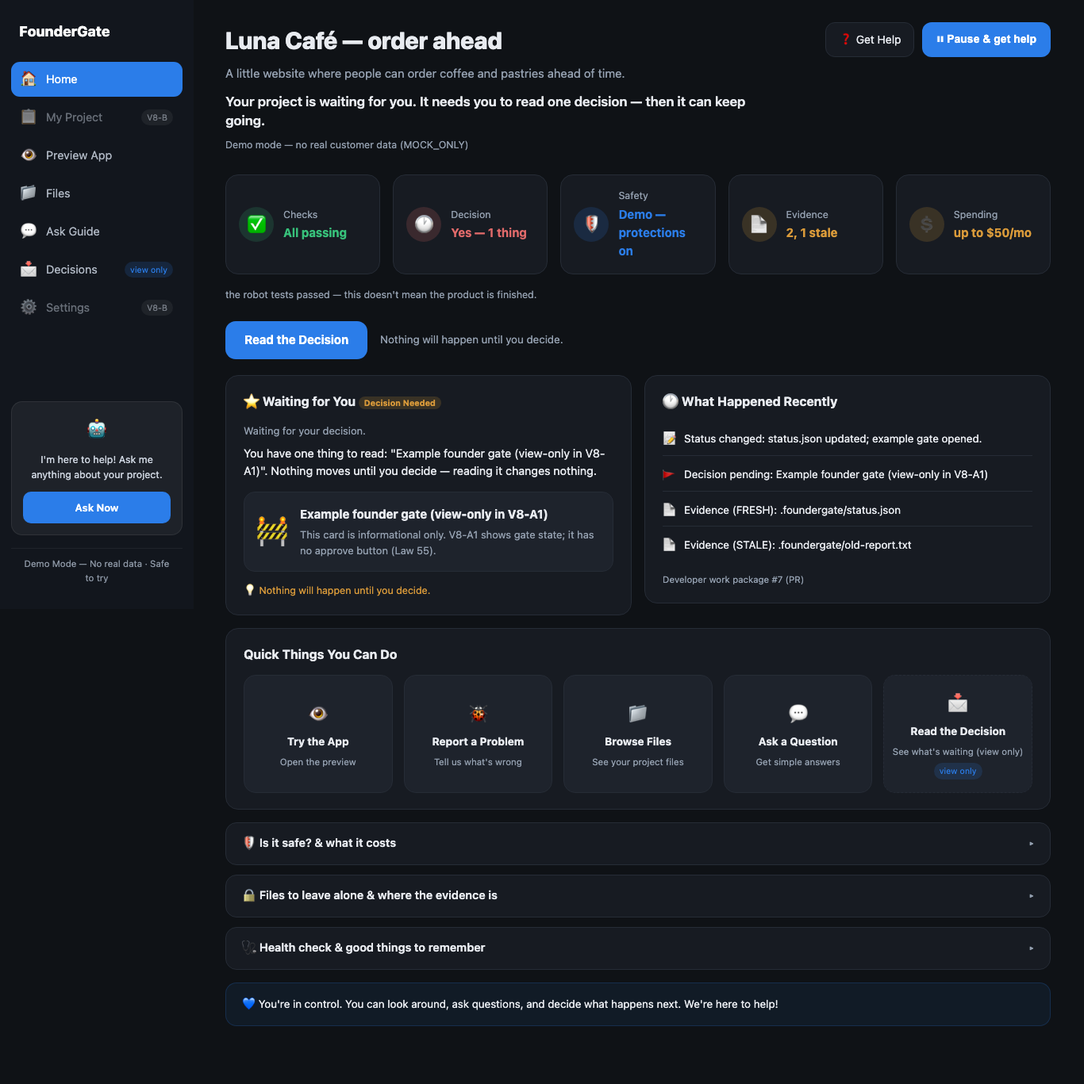
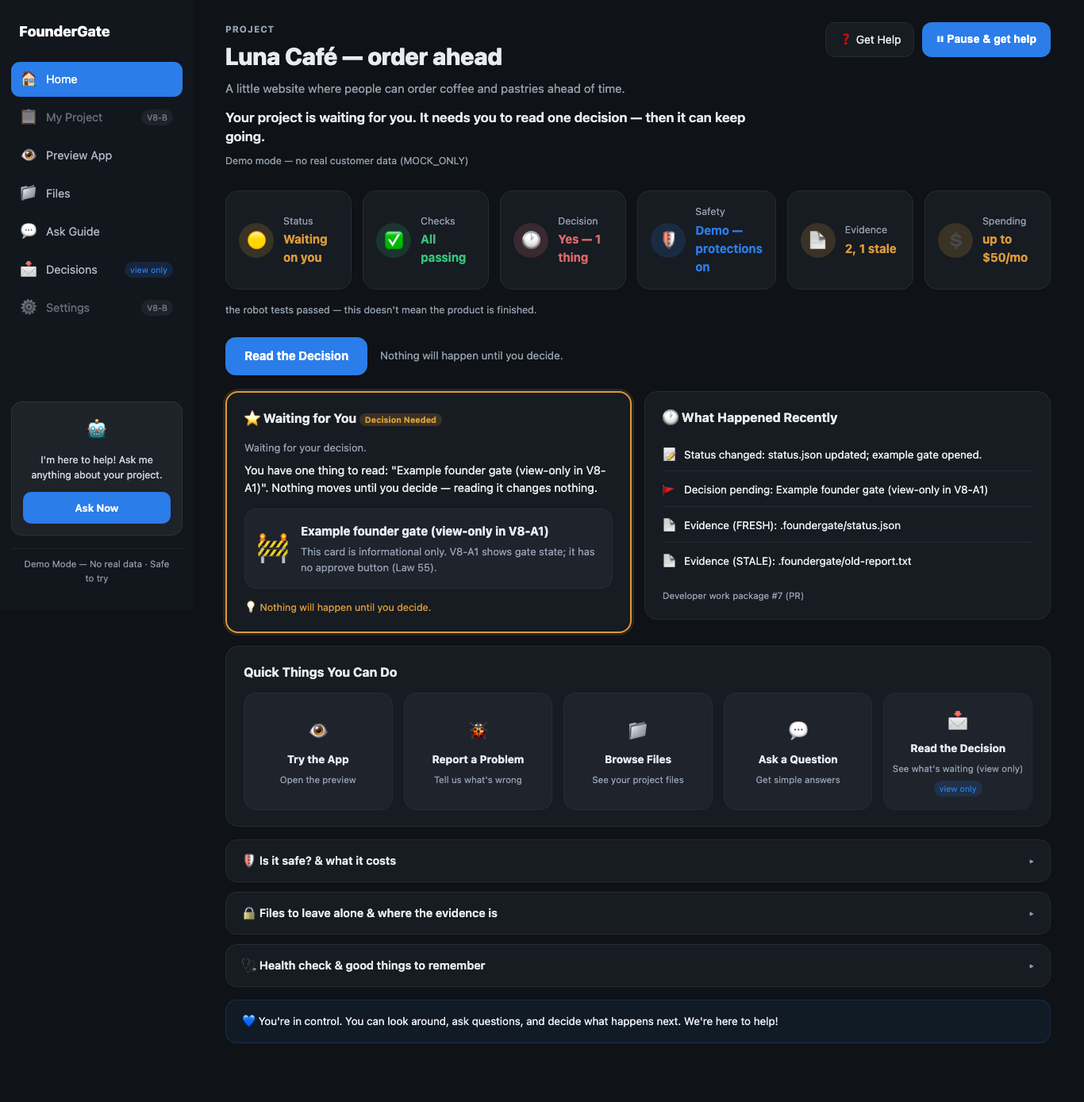
VA-REPAIR-4: design-system consolidation + Run-4 findings (J0/J1/J2/J4/J5/J6)
Root cause of the Run-4 visual findings: four apps built in four bundles carried
four divergent stylesheets ("doesn't match / a little off / very dull / very red,
very scary"). Fix the CAUSE.

J0 shared design system: new src/ui/tokens.css (palette, type scale, spacing,
card/badge/chip/button components). All four servers serve /tokens.css; all four
HTMLs load it; the three light apps drop their own palettes to inherit the shared
DARK tokens. Guard: src/tools/design-consistency.selftest.mjs (every page loads
tokens + uses shared palette; no divergent light theme). (.gitignore *token* glob
was swallowing tokens.css — added !**/tokens.css negation.)

J1 running-STATE chip on the dashboard status strip (Jimmy: "how do I know if the
project is running?"), model-derived traffic light (green run / amber wait|pause /
red stop / grey unknown). Guard: home-model tone-per-state.
J2 amber highlight/trim on the needs-you decision card when pending. Smoke asserts.
J5 "Project:" label above the name. Smoke asserts.
J4 File Cabinet calmed: red danger-wall -> calm purple LOCK treatment; red reserved
for a genuine problem only. D4 badge-visibility guard updated (distinct AND calm);
"red = problem only" added to the Assembly Manual UI-language law (§24).
J6 Project Guide warmed to the shared design (dark shell + a friendly welcome).

VISUAL SELF-REVIEW performed on all four apps at 1366x768 and 1440x900; verdict in
[…]

diff --git a/src/v8a3/filecabinet/ui/filecabinet.css b/src/v8a3/filecabinet/ui/filecabinet.css
@@ -1,11 +1,10 @@
-:root { --bg:#f5f6f8; --sidebar:#1f2530; --panel:#fff; --text:#232a33; --muted:#6b7480; --line:#e5e9ef;
-  --accent:#2b7de9; --ok:#1f9d55; --warn:#b26a00; --lock:#7a4bd6; --blocked:#c0362c; }
-@media (prefers-color-scheme: dark){ :root{ --bg:#12151a; --panel:#1a1e25; --text:#e6e9ee; --line:#2a2f38; --muted:#94a0b0; --blocked:#ff6b5e; } }
-*{box-sizing:border-box} html,body{margin:0;height:100%} body{background:var(--bg);color:var(--text);
-  font:14px/1.45 -apple-system,BlinkMacSystemFont,"Segoe UI",Roboto,sans-serif}
-.app{display:grid;grid-template-columns:216px 1fr;min-height:100vh}
-.sidebar{background:var(--sidebar);color:#cdd4df;display:flex;flex-direction:column;padding:16px 12px;gap:4px;height:100vh;position:sticky;top:0}
-.brand{font-weight:700;color:#fff;font-size:16px;padding:6px 10px 14px}
+/* Palette + components come from the shared design system (tokens.css). Layout-only
+   here, so the File Cabinet matches its siblings (VA-REPAIR-4 / J0). Protected/blocked
+   files use the CALM LOCK treatment (purple), never a red danger-wall — red is
+   reserved for a genuine problem (J4). */
+.app{display:grid;grid-template-columns:244px 1fr;min-height:100vh}
+.sidebar{background:var(--sidebar);color:var(--sidebar-text);display:flex;flex-direction:column;padding:20px 14px;gap:4px;height:100vh;position:sticky;top:0}
+.brand{font-weight:800;color:#fff;font-size:18px;padding:6px 10px 18px}
 .nav{display:flex;flex-direction:column;gap:2px}.nav .item{padding:8px 10px;border-radius:8px;color:#cdd4df;font-size:13.5px;cursor:default}
 .nav .item.active{background:var(--accent);color:#fff}
 .sidebar-spacer{flex:1}.pause-dock{border-top:1px solid rgba(255,255,255,.08);padding-top:12px}
@@ -23,33 +22,34 @@
 /* Filter toolbar — one-click jump to protected/blocked files. */
 .tree-panel{display:flex;flex-direction:column}
 .tree-tools{display:flex;align-items:center;flex-wrap:wrap;gap:8px;margin-bottom:10px}
-.filter-btn{font-size:12.5px;font-weight:600;padding:7px 12px;border-radius:8px;border:1px solid var(--blocked);
-  background:rgba(192,54,44,.07);color:var(--blocked);cursor:pointer}
-.filter-btn:hover{background:rgba(192,54,44,.14)}
-.filter-btn[aria-pressed="true"]{background:var(--blocked);color:#fff}
+.filter-btn{font-size:12.5px;font-weight:600;padding:7px 12px;border-radius:8px;border:1px solid var(--lock);
+  background:var(--lock-tint);color:var(--lock);cursor:pointer}
+.filter-btn:hover{background:rgba(183,155,240,.20)}
+.filter-btn[aria-pressed="true"]{background:var(--lock);color:#fff}
 .tree-tools-hint{font-size:11.5px;color:var(--muted)}
 .filerow{display:flex;align-items:center;justify-content:space-between;gap:8px;padding:6px 8px;border-radius:8px;cursor:pointer}
 .filerow:hover{background:var(--bg)}
 .filerow.locked{cursor:not-allowed;opacity:.85}
 .fileleft{display:flex;align-items:center;gap:6px;min-width:0}
 .filename{font-size:13px;overflow:hidden;text-overflow:ellipsis;white-space:nowrap}
-/* Blocked rows: a loud, distinct treatment (red rail + lock) — clearly NOT the
-   quiet safe rows, spottable without reading a word. */
-.row-lock{color:var(--blocked);font-size:12.5px;line-height:1;flex:0 0 auto}
-.filerow.blocked{background:rgba(192,54,44,.07);border-left:3px solid var(--blocked);padding-left:6px}
-.filerow.blocked:hover{background:rgba(192,54,44,.14)}
-.filerow.blocked .filename{font-weight:600;color:var(--blocked)}
+/* Blocked rows: a CALM, distinct lock treatment (purple rail + lock glyph) —
+   clearly not the quiet safe rows, spottable without reading a word, but not scary
+   (J4: red is reserved for a genuine problem). */
+.row-lock{color:var(--lock);font-size:12.5px;line-height:1;flex:0 0 auto}
+.filerow.blocked{background:var(--lock-tint);border-left:3px solid var(--lock);padding-left:6px}
+.filerow.blocked:hover{background:rgba(183,155,240,.20)}
+.filerow.blocked .filename{font-weight:600;color:var(--lock)}
 .badge{display:inline-block;font-size:10.5px;padding:2px 8px;border-radius:6px;background:var(--bg);border:1px solid var(--line);color:var(--muted);white-space:nowrap}
 .badge.ok{color:var(--ok);border-color:rgba(31,157,85,.4)}
 .badge.warn{color:var(--warn);border-color:rgba(178,106,0,.4)}
 .badge.lock{color:var(--lock);border-color:rgba(122,75,214,.4)}
-/* Blocked badge overrides the safe/lock palette — dedicated red, bold, loud. */
-.badge.blocked{color:#fff;background:var(--blocked);border-color:var(--blocked);font-weight:700}
+/* Blocked badge: the calm lock treatment (purple), bold enough to spot at a glance. */
+.badge.blocked{color:#fff;background:var(--lock);border-color:var(--lock);font-weight:700}
 .viewer{min-height:320px}
 .viewer-empty{color:var(--muted);padding:30px;text-align:center}
 .viewer-head{display:flex;align-items:center;justify-content:space-between;gap:10px;margin-bottom:8px}
 .viewer-actions{display:flex;gap:6px}
 .btn{font-size:12.5px;padding:6px 10px;border-radius:8px;border:1px solid var(--line);background:var(--panel);color:var(--text);cursor:pointer}
 .viewer-body{background:var(--bg);border:1px solid var(--line);border-radius:8px;padding:12px;max-height:360px;overflow:auto;white-space:pre-wrap;font:12px/1.5 ui-monospace,Menlo,monospace}
-.viewer-blocked{background:rgba(192,54,44,.08);border:1px solid var(--blocked);border-radius:8px;padding:16px;color:var(--blocked)}
+.viewer-blocked{background:var(--lock-tint);border:1px solid var(--lock);border-radius:8px;padding:16px;color:var(--lock)}
 .hint{font-size:12px;color:var(--muted)}

diff --git a/src/ui/tokens.css b/src/ui/tokens.css
@@ -1,0 +1,57 @@
+/* FounderGate — SHARED DESIGN TOKENS (one design language for all four apps).
+ *
+ * VA-REPAIR-4 / J0: the four founder-facing apps (Truth Dashboard, Preview Bay,
+ * File Cabinet, Project Guide) were built in four bundles with four divergent
+ * stylesheets ("doesn't match / a little off / very dull / very scary"). This file
+ * is the single source of the palette, type scale, spacing rhythm, and the shared
+ * card / badge / chip / button components. Every app loads it FIRST; each app's own
+ * CSS keeps only its layout.
+ *
+ * UI LANGUAGE / COLOUR LAW: red is reserved for a genuine PROBLEM (a real failure or
+ * a live danger). Routine "protected / blocked / hidden" states use the calm LOCK
+ * treatment (neutral + a quiet purple), never a red danger-wall. (Assembly Manual
+ * UI-language section: scary colour fields are banned like scary words.)
+ */
+
+:root {
+  /* palette — the dashboard's dark system, now shared */
+  --bg: #0f1216; --sidebar: #12161d; --sidebar-text: #aeb6c2; --sidebar-active: #2b7de9;
+  --panel: #171b22; --panel2: #1e232c; --text: #e8ebf0; --muted: #94a0b0; --line: #262c36;
+  --accent: #2b7de9;
+  /* semantic status — green good · amber attention/caution · red PROBLEM ONLY · purple protected · grey unknown */
+  --ok: #37c07a; --warn: #d99a3a; --bad: #e06a6a; --lock: #b79bf0; --lock-tint: #20182f; --unknown: #94a0b0;
+  /* type scale (one scale, no competing sizes) */
+  --t-title: 30px; --t-h2: 16px; --t-body: 15px; --t-small: 12.5px;
+  /* spacing rhythm (8pt grid) */
+  --sp: 8px; --radius: 16px; --radius-sm: 11px;
+  --shadow: 0 1px 3px rgba(10,20,40,.28);
+}
+:root[data-theme="light"] { --bg:#f5f6f8; --sidebar:#12161d; --panel:#fff; --panel2:#f1f3f6; --text:#232a33; --muted:#6b7480; --line:#e5e9ef; --lock-tint:#f3eefc; }
+
+* { box-sizing: border-box; }
+html, body { margin: 0; min-height: 100%; }
+body { background: var(--bg); color: var(--text);
+  font: var(--t-body)/1.55 -apple-system, BlinkMacSystemFont, "Segoe UI", Roboto, sans-serif; }
+
+/* ---- shared components (apps reference these for kinship) ---- */
+.fg-card { background: var(--panel); border: 1px solid var(--line); border-radius: var(--radius); padding: 20px 22px; }
+.fg-card h2 { font-size: var(--t-h2); margin: 0 0 14px; }
+
+.fg-badge { display: inline-block; font-size: 11px; padding: 2px 9px; border-radius: 7px; background: var(--panel2); color: var(--muted); border: 1px solid transparent; white-space: nowrap; }
+.fg-badge.ok { background: rgba(55,192,122,.15); color: var(--ok); }
+.fg-badge.warn { background: rgba(217,154,58,.16); color: var(--warn); }
+.fg-badge.info { background: rgba(43,125,233,.14); color: var(--accent); }
+/* calm lock treatment for protected / blocked / unknown — NOT red */
+.fg-badge.lock { background: rgba(183,155,240,.16); color: var(--lock); border-color: rgba(183,155,240,.28); }
+/* red badge is for a genuine PROBLEM only */
+.fg-badge.problem { background: rgba(224,106,106,.16); color: var(--bad); }
+
+.fg-chip { display: inline-flex; align-items: center; gap: 6px; font-size: var(--t-small); padding: 4px 11px; border-radius: 999px; border: 1px solid var(--line); background: var(--panel2); color: var(--text); }
+
+.fg-btn { min-height: 44px; display: inline-flex; align-items: center; justify-content: center; gap: 6px; font: inherit; font-size: 14px; font-weight: 600; padding: 0 18px; border-radius: 12px; border: 1px solid var(--line); background: var(--panel); color: var(--text); cursor: pointer; text-decoration: none; }
+.fg-btn.primary { border: 0; background: var(--accent); color: #fff; }
+
+.fg-tag { font-size: 10.5px; background: rgba(43,125,233,.16); color: var(--accent); padding: 2px 7px; border-radius: 999px; }
+
+/* shared sidebar shell (all apps share the same left rail look) */
+.fg-sidebar { background: var(--sidebar); color: var(--sidebar-text); }

diff --git a/src/v8a4/guide/ui/guide.css b/src/v8a4/guide/ui/guide.css
@@ -1,11 +1,8 @@
-:root { --bg:#f5f6f8; --sidebar:#1f2530; --panel:#fff; --text:#232a33; --muted:#6b7480; --line:#e5e9ef;
-  --accent:#2b7de9; --ok:#1f9d55; --warn:#b26a00; --lock:#7a4bd6; }
-@media (prefers-color-scheme: dark){ :root{ --bg:#12151a; --panel:#1a1e25; --text:#e6e9ee; --line:#2a2f38; --muted:#94a0b0; } }
-*{box-sizing:border-box} html,body{margin:0;height:100%} body{background:var(--bg);color:var(--text);
-  font:14px/1.45 -apple-system,BlinkMacSystemFont,"Segoe UI",Roboto,sans-serif}
-.app{display:grid;grid-template-columns:216px 1fr;min-height:100vh}
-.sidebar{background:var(--sidebar);color:#cdd4df;display:flex;flex-direction:column;padding:16px 12px;gap:4px;height:100vh;position:sticky;top:0}
-.brand{font-weight:700;color:#fff;font-size:16px;padding:6px 10px 14px}
+/* Palette + components come from the shared design system (tokens.css). Layout-only
+   here, so the Project Guide matches its siblings (VA-REPAIR-4 / J0 + J6). */
+.app{display:grid;grid-template-columns:244px 1fr;min-height:100vh}
+.sidebar{background:var(--sidebar);color:var(--sidebar-text);display:flex;flex-direction:column;padding:20px 14px;gap:4px;height:100vh;position:sticky;top:0}
+.brand{font-weight:800;color:#fff;font-size:18px;padding:6px 10px 18px}
 .nav{display:flex;flex-direction:column;gap:2px}.nav .item{padding:8px 10px;border-radius:8px;color:#cdd4df;font-size:13.5px;cursor:default}
 .nav .item.active{background:var(--accent);color:#fff}
 .sidebar-spacer{flex:1}.pause-dock{border-top:1px solid rgba(255,255,255,.08);padding-top:12px}
@@ -18,7 +15,12 @@
 .chip{font-size:12.5px;padding:6px 11px;border-radius:999px;border:1px solid var(--line);background:var(--bg);color:var(--text);cursor:pointer}
 .chip:hover{border-color:var(--accent);color:var(--accent)}
 
-.chat{display:flex;flex-direction:column;gap:10px;min-height:120px;margin-bottom:12px}
+/* J6 — a warm welcome so the empty chat isn't dull; hidden once a reply arrives. */
+.chat{display:flex;flex-direction:column;gap:10px;min-height:200px;margin-bottom:12px}
+.chat-welcome{align-self:center;text-align:center;color:var(--muted);margin:auto;max-width:420px}
+.chat-welcome .robot{font-size:34px}
+.chat-welcome .hi{color:var(--text);font-weight:600;font-size:15px;margin:8px 0 4px}
+.chat[data-ready="1"] .chat-welcome{display:none}
 .msg{max-width:88%;padding:10px 13px;border-radius:12px;font-size:13.5px;white-space:pre-wrap;overflow-wrap:anywhere}
 .msg.me{align-self:flex-end;background:var(--accent);color:#fff;border-bottom-right-radius:4px}
 .msg.guide{align-self:flex-start;background:var(--bg);border:1px solid var(--line);border-bottom-left-radius:4px}

diff --git a/src/v8a1/dashboard/styles.css b/src/v8a1/dashboard/styles.css
@@ -38,6 +38,7 @@ body { background: var(--bg); color: var(--text);
 /* Top bar — IDENTITY */
 .topbar { display: flex; align-items: flex-start; justify-content: space-between; gap: 24px; margin-bottom: 28px; }
 .identity { max-width: 680px; }
+.proj-label { font-size: 11.5px; font-weight: 700; letter-spacing: .09em; text-transform: uppercase; color: var(--muted); margin-bottom: 2px; }
 .proj-name { font-size: 30px; font-weight: 800; margin: 0; letter-spacing: -.01em; }
 .proj-desc { margin: 6px 0 0; color: var(--muted); font-size: 15px; }
 .proj-summary { margin: 12px 0 0; font-size: 17px; font-weight: 600; line-height: 1.45; }
@@ -50,8 +51,9 @@ body { background: var(--bg); color: var(--text);
 
 /* ===== LAYER 1 — the essentials; natural height, Layer 2 flows right after ===== */
 .layer1 { margin-bottom: 20px; }
-.chips-row { display: grid; grid-template-columns: repeat(5, 1fr); gap: 16px; }
-@media (max-width: 1000px) { .chips-row { grid-template-columns: repeat(2, 1fr); } }
+.chips-row { display: grid; grid-template-columns: repeat(6, 1fr); gap: 14px; }
+@media (max-width: 1100px) { .chips-row { grid-template-columns: repeat(3, 1fr); } }
+@media (max-width: 700px) { .chips-row { grid-template-columns: repeat(2, 1fr); } }
 .statchip { display: flex; align-items: center; gap: 12px; min-height: 76px; padding: 16px; border: 1px solid var(--line); border-radius: 16px; background: var(--panel); }
 .statchip-ico { font-size: 22px; width: 44px; height: 44px; display: grid; place-items: center; border-radius: 50%; flex-shrink: 0; }
 .statchip-ico.ok { background: rgba(55,192,122,.16); } .statchip-ico.attention { background: rgba(224,106,106,.18); }
@@ -72,6 +74,8 @@ body { background: var(--bg); color: var(--text);
 .card h2 { font-size: 16px; margin: 0 0 14px; }
 .mainrow { display: grid; grid-template-columns: 1fr 1fr; gap: 16px; align-items: start; }
 @media (max-width: 1000px) { .mainrow { grid-template-columns: 1fr; } }
+/* J2 — the card that needs the founder gets an amber trim + soft glow */
+.card.waiting.needs-you { border: 2px solid var(--warn); box-shadow: 0 0 0 3px rgba(217,154,58,.14); }
 .waiting .decision-state { margin: 0 0 8px; font-size: 13px; color: var(--muted); }
 .waiting .lead { font-size: 14.5px; margin: 0 0 14px; }
 .gate-box { display: flex; gap: 16px; align-items: center; background: var(--panel2); border: 1px solid var(--line); border-radius: 14px; padding: 16px; }

diff --git a/src/v8a2/preview/ui/preview-bay.css b/src/v8a2/preview/ui/preview-bay.css
@@ -1,11 +1,9 @@
-:root { --bg:#f5f6f8; --sidebar:#1f2530; --panel:#fff; --text:#232a33; --muted:#6b7480; --line:#e5e9ef;
-  --accent:#2b7de9; --ok:#1f9d55; --warn:#b26a00; --bad:#d64545; }
-@media (prefers-color-scheme: dark){ :root{ --bg:#12151a; --panel:#1a1e25; --text:#e6e9ee; --line:#2a2f38; --muted:#94a0b0; } }
-*{box-sizing:border-box} html,body{margin:0;height:100%} body{background:var(--bg);color:var(--text);
-  font:14px/1.45 -apple-system,BlinkMacSystemFont,"Segoe UI",Roboto,sans-serif}
-.app{display:grid;grid-template-columns:216px 1fr;min-height:100vh}
-.sidebar{background:var(--sidebar);color:#cdd4df;display:flex;flex-direction:column;padding:16px 12px;gap:4px;height:100vh;position:sticky;top:0}
-.brand{font-weight:700;color:#fff;font-size:16px;padding:6px 10px 14px}
+/* Palette, type scale, and card/badge/chip/button components come from the shared
+   design system (tokens.css, loaded first). This file is layout-only so the Preview
+   Bay matches its sibling apps (VA-REPAIR-4 / J0). */
+.app{display:grid;grid-template-columns:244px 1fr;min-height:100vh}
+.sidebar{background:var(--sidebar);color:var(--sidebar-text);display:flex;flex-direction:column;padding:20px 14px;gap:4px;height:100vh;position:sticky;top:0}
+.brand{font-weight:800;color:#fff;font-size:18px;padding:6px 10px 18px}
 .nav{display:flex;flex-direction:column;gap:2px}
 .nav .item{padding:8px 10px;border-radius:8px;color:#cdd4df;font-size:13.5px;cursor:default}
 .nav .item.active{background:var(--accent);color:#fff}

diff --git a/src/v8a4/guide/ui/guide.html b/src/v8a4/guide/ui/guide.html
@@ -4,6 +4,7 @@
   <meta charset="utf-8" />
   <meta name="viewport" content="width=device-width, initial-scale=1" />
   <title>Project Guide — FounderGate</title>
+  <link rel="stylesheet" href="tokens.css" />
   <link rel="stylesheet" href="guide.css" />
 </head>
 <body>
@@ -29,7 +30,14 @@
 
       <section class="card">
         <div class="chips" id="chips" aria-label="Things you can ask"></div>
-        <div class="chat" id="chat" data-ready="0" aria-live="polite"></div>
+        <div class="chat" id="chat" data-ready="0" aria-live="polite">
+          <div class="chat-welcome" id="chat-welcome">
+            <div class="robot" aria-hidden="true">🤖</div>
+            <p class="hi">Hi! I'm your Project Guide.</p>
+            <p>Ask me anything in plain English — I'll answer clearly and show you where I got the answer. Tap a
+              question above, or type your own. I can only explain and draft — I never change anything.</p>
+          </div>
+        </div>
         <form class="ask" id="ask">
           <input id="q" autocomplete="off" placeholder="Ask about your project — e.g. “what's blocked?”" />
           <button type="submit" id="send">Ask</button>

diff --git a/src/v8a3/filecabinet/ui/filecabinet.html b/src/v8a3/filecabinet/ui/filecabinet.html
@@ -4,6 +4,7 @@
     <meta charset="utf-8" />
     <meta name="viewport" content="width=device-width, initial-scale=1" />
     <title>FounderGate — File Cabinet (V8-A3)</title>
+    <link rel="stylesheet" href="tokens.css" />
     <link rel="stylesheet" href="filecabinet.css" />
   </head>
   <body>
@@ -32,7 +33,7 @@
           <div class="tree-panel">
             <div class="tree-tools">
               <button id="show-blocked-btn" class="filter-btn" type="button" aria-pressed="false">🔒 Show only protected &amp; blocked files</button>
-              <span class="tree-tools-hint">Protected files show a lock and a red mark.</span>
+              <span class="tree-tools-hint">Protected files show a lock and a purple mark.</span>
             </div>
             <section class="tree card" id="tree" aria-label="Files by category"></section>
           </div>

diff --git a/src/v8a1/dashboard/index.html b/src/v8a1/dashboard/index.html
@@ -4,6 +4,7 @@
     <meta charset="utf-8" />
     <meta name="viewport" content="width=device-width, initial-scale=1" />
     <title>FounderGate — Truth Dashboard (V8-A1)</title>
+    <link rel="stylesheet" href="tokens.css" />
     <link rel="stylesheet" href="styles.css" />
   </head>
   <body id="top">
@@ -25,6 +26,7 @@
         <!-- Top bar: IDENTITY (what is this) + actions -->
         <header class="topbar">
           <div class="identity" id="identity">
+            <div class="proj-label" id="proj-label">Project</div>
             <h1 class="proj-name" id="proj-name">—</h1>
             <p class="proj-desc" id="proj-desc"></p>
             <p class="proj-summary" id="proj-summary"></p>

diff --git a/src/v8a1/dashboard/app.js b/src/v8a1/dashboard/app.js
@@ -58,6 +58,8 @@ function render(view) {
   $("next-note").textContent = h.nextNote;
 
   // LAYER 2 — Waiting detail (F3), activity, tiles
+  // J2 (Run-4): the card needing the founder carries an amber highlight/trim.
+  $("waiting").classList.toggle("needs-you", !!h.waiting.hasPending);
   $("waiting-title").textContent = (h.waiting.hasPending ? "⭐ " : "") + h.waiting.title;
   $("decision-needed-tag").textContent = h.honesty.decisionLabel;
   $("decision-state").textContent = h.honesty.decisionState;

diff --git a/src/v8a2/preview/ui/preview-bay.html b/src/v8a2/preview/ui/preview-bay.html
@@ -4,6 +4,7 @@
     <meta charset="utf-8" />
     <meta name="viewport" content="width=device-width, initial-scale=1" />
     <title>FounderGate — Preview Bay (V8-A2)</title>
+    <link rel="stylesheet" href="tokens.css" />
     <link rel="stylesheet" href="preview-bay.css" />
   </head>
   <body>

diff --git a/docs/assembly-evidence/visual-review/VISUAL_REVIEW.md b/docs/assembly-evidence/visual-review/VISUAL_REVIEW.md
@@ -1,26 +1,30 @@
-# VISUAL SELF-REVIEW — verdict (first review under THE VISUAL SELF-REVIEW LAW)
+# VISUAL SELF-REVIEW — verdict (THE VISUAL SELF-REVIEW LAW, Assembly Manual §23)
 
-> **Bundle:** VA-VISUAL-LAW · **Date:** 2026-07-10 · **Reviewer:** FounderGate CTO (looked at each image and reasoned
-> as a first-time human would). **Scope:** all four founder-facing screens at **1366×768** and **1440×900**, full-page
-> and above-the-fold. Screenshots in this folder (`<screen>-<viewport>-{full,fold}.png`).
+> **Bundle:** VA-REPAIR-4 (design-system consolidation) · **Date:** 2026-07-11 · **Reviewer:** FounderGate CTO
+> (looked at each image and reasoned as a first-time human would). **Scope:** all four founder-facing screens at
+> **1366×768** and **1440×900**, full-page and above-the-fold. Screenshots in this folder.
 >
 > **Honest scope note (from the law):** this review *reduces, not eliminates,* human catches. The founder witness
 > gate remains the final filter.
 
-## One-line verdict per screen
+## One-line verdict per screen (after VA-REPAIR-4 — one shared dark design language)
 
 | Screen | 1366×768 | 1440×900 | Verdict |
 |--------|----------|----------|---------|
-| **Truth Dashboard** | clean | clean | **PASS** — the tall-viewport VOID is fixed: Layer 1 (identity + 5 chips + "Read the Decision") sits above the fold, Layer 2 flows immediately after with even spacing, no dead space; reads as a real product. |
-| **Preview Bay** | good | good | **PASS (note)** — the embedded **Luna Café** app reads as a believable site (logo, menu, prices). *Minor, parked:* the café is embedded in a fixed-height frame, so the practice **"Send order"** button is below the frame's visible area — reachable by scrolling the embed or via **Open Full Screen**. Not broken; disclosed. |
-| **File Cabinet** | clean | clean | **PASS** — clear categories; PUBLIC_SAFE (green "safe to read") vs SECRET/UNKNOWN (red "protected / not sorted") badges with lock glyphs; one-click "show protected & blocked" filter; empty preview panel shows the expected "Pick a file…" prompt. No voids/overlaps. |
-| **Project Guide** | functional | functional | **PASS (note)** — chat works (prompt chips, input, honest read-only note). *Minor, parked:* before the first question the chat area looks **sparse** (empty space between chips and input). Functional and fills on first answer; a friendly placeholder line would improve it. V8-A4 is accepted — not fixed in this bundle; disclosed. |
+| **Truth Dashboard** | clean | clean | **PASS** — the new **running-state chip** ("🟡 Waiting on you") leads the strip (answers "is it running?"); the **PROJECT** label sits above the name; the needs-you card has an **amber trim**. Identity + 6 chips + one action above the fold, no void. |
+| **Preview Bay** | clean | clean | **PASS** — now the **same dark design** as the dashboard (was "a little bit off"): shared sidebar, chips, buttons, panels. Controls read as one product. |
+| **File Cabinet** | clean | clean | **PASS** — dark and **CALM**: the "very red, very scary" danger-wall is gone; protected/blocked files use the quiet **purple lock** treatment (still distinct at a glance), green "safe to read" for safe files, one-click filter. Red is no longer used for routine states. |
+| **Project Guide** | clean | clean | **PASS** — dark and **warm** (was "very dull"): a friendly 🤖 welcome fills the once-empty chat; chips, input, and shell match the siblings; every honesty behaviour unchanged. |
 
-## Defect fixed in this bundle
-**Dashboard tall-viewport void** — `.layer1` had `min-height: calc(100vh - 210px)` (plus a scroll cue), which stretched Layer 1 to fill the screen and left a large empty gap before Layer 2 on tall viewports. The smoke's old "Layer 2 must start BELOW the fold" rule *rewarded* that void. **Fixed:** removed the artificial min-height/spacer/scroll-cue; Layer 1 takes natural height and Layer 2 flows right after. **Guard corrected (not deleted):** (a) all Layer-1 elements fully above the fold; (b) Layer 1 presents ≤6 role-labelled answers, all above the fold; (c) NEW anti-void — no vertical gap >120px between consecutive sections; and all geometry now runs at **both** 1366×768 and 1440×900.
+## What changed in this bundle (Run-4 findings)
+- **J0** shared design tokens (`src/ui/tokens.css`) — all four apps load + use it; per-app CSS is layout-only.
+- **J1** running-STATE chip (traffic-light, model-derived) · **J2** amber highlight on the needs-you card ·
+  **J5** "Project:" label · **J4** File Cabinet calmed (red → purple lock; red = problem only) · **J6** Guide
+  warmed to the shared design.
 
-## Parked / disclosed (not blockers for Run 4)
-1. Preview Bay embed: café "Send order" below the frame fold (Open Full Screen works).
-2. Project Guide: sparse empty chat before first question.
+## Parked / disclosed (not blockers)
+- Preview Bay: the embedded café "Send order" still sits below the embed's frame (Open Full Screen shows it) —
+  unchanged from the prior review; a fixed-height embed, disclosed again.
 
-Both are minor and do not read as "broken." Neither blocks the Run-4 stranger session; surfaced here per the law's disclosure requirement for the founder to weigh.
+No screen reads as "broken," "off," "dull," or "scary." The four apps now read as **one coherent product** — the
+central Run-4 finding. Surfaced for the founder to weigh at G-VA-REWITNESS-4.

diff --git a/docs/ASSEMBLY_MANUAL.md b/docs/ASSEMBLY_MANUAL.md
@@ -454,3 +454,27 @@ guards + this human-style look are a filter, not a guarantee; the **founder witn
 **Mechanical enforcement:** where mechanical, the suite fails if the visual-review verdict is absent or stale for
 founder-facing UI — `src/tools/visual-review.selftest.mjs` (in CI) requires `VISUAL_REVIEW.md` to exist, cover all
 four screens at both viewports with a verdict line each, and reference on-disk screenshots.
+
+## 24. UI LANGUAGE LAW — colour (founder-mandated 2026-07-10, Run-4)
+
+**Scary colour fields are banned the same way scary words are.** A stranger ("Jimmy", 11) said the File Cabinet
+looked "very red, very scary… like I'm gonna destroy something" — the routine *protected / blocked / hidden*
+states were painted in danger-red. Rule:
+
+- **Red is reserved for a genuine PROBLEM** — a real failure, a broken check, or a live danger. Never for a normal,
+  expected, protected/hidden state.
+- Routine *protected / blocked / hidden* uses the **calm LOCK treatment** (neutral + a quiet purple + a lock glyph):
+  distinct and spottable at a glance, but not alarming.
+- **Green = good · amber = attention/needs-you · red = PROBLEM · purple = protected · grey = unknown.** These
+  semantic colours are shared across all apps via the design tokens (`src/ui/tokens.css`).
+
+Mechanically enforced for the File Cabinet by `src/v8a3/filecabinet/badge-visibility.selftest.mjs` (routine blocked
+rows must use the calm lock colour, never a red danger hex or `var(--bad)`), and the shared design language by
+`src/tools/design-consistency.selftest.mjs`.
+
+## 25. Design system (founder-mandated 2026-07-10, Run-4)
+
+All four founder-facing apps (Truth Dashboard, Preview Bay, File Cabinet, Project Guide) load and use ONE shared
+design-token stylesheet — `src/ui/tokens.css` (palette, type scale, spacing rhythm, and card/badge/chip/button
+components). Per-app CSS is layout-only. New founder-facing surfaces must load the shared tokens and use its
+components — enforced by `src/tools/design-consistency.selftest.mjs`.
